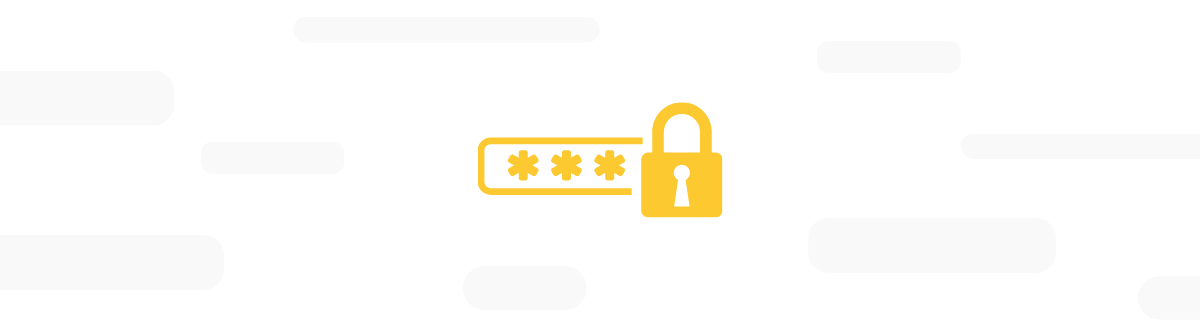
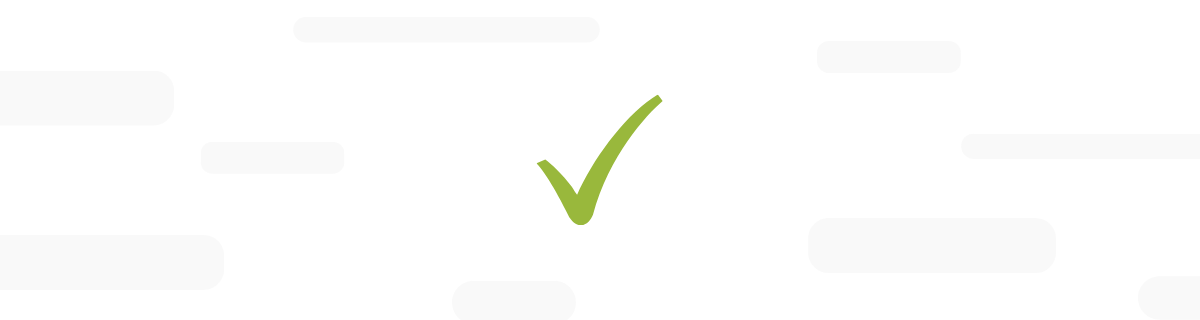
Componente RegisterSuccessComplejo.js Finalizado

Changed region(s): [[0.4008, 0.2812, 0.6167, 0.7188]]

diff --git a/rentnow-web/src/components/App/Complejos/RegisterComplejo/RegisterSuccessComplejo.js b/rentnow-web/src/components/App/Complejos/RegisterComplejo/RegisterSuccessComplejo.js
@@ -6,9 +6,9 @@ import successImage from '../../../../assets/img/register-success-image.png'
 
 const useStyles = makeStyles((theme) => ({
   divider: {
-    borderTop: "2px solid #3F4652",
-    marginLeft: theme.spacing(3),
-    marginRight: theme.spacing(3),
+    borderTop: "2px solid #656b74",
+    marginLeft: theme.spacing(4),
+    marginRight: theme.spacing(4),
     borderRadius: "1.5px",
   },
   paper: {
@@ -84,10 +84,10 @@ export const RegisterSuccessComplejo = ({ complejo }) => {
       </Paper>
       <AlertCustom
         type="warning"
-        text="Recuerda que el complejo permanecerá en estado Deshabilitado hasta que el equipo de RentNow valide y apruebe la solicitud de registro."
+        text="Recuerda que el complejo permanecerá en estado Deshabilitado (por lo que no podrá ser utilizado) hasta que el equipo de RentNow valide y apruebe la solicitud de registro."
         open={alertCustomOpen}
         setOpen={setAlertCustomOpen}
-        duration={1000000000}
+        duration={0}
         vertical="bottom"
       />
     </>

diff --git a/rentnow-web/src/components/utils/AlertCustom/AlertCustom.js b/rentnow-web/src/components/utils/AlertCustom/AlertCustom.js
@@ -8,8 +8,8 @@ const AlertCustom = (props) => {
   const handleClose = () => {
     props.setOpen(false);
   };
-  const verticalPosition =  props.vertical ? props.vertical : "top";
-  const horizontalPosition =  props.horizontal ? props.horizontal : "center";
+  const verticalPosition =  props.vertical || "top";
+  const horizontalPosition =  props.horizontal || "center";
   return (
     <Snackbar
       anchorOrigin={{ vertical: verticalPosition , horizontal: horizontalPosition }}
